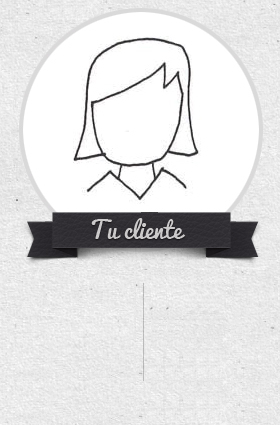
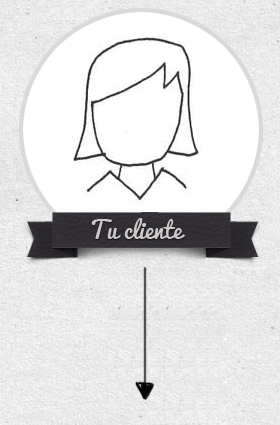
testimonials and breaks

Changed region(s): [[0.4857, 0.6118, 0.5714, 0.9482]]

diff --git a/public/stylesheets/style.css b/public/stylesheets/style.css
@@ -43,7 +43,7 @@ body {
 .right {
   float: right; }
 
-.fold_how, .fold_examples {
+.fold_how {
   height: 768px; }
 
 .fold_intro {
@@ -66,28 +66,37 @@ body {
 .intro .quees {
   width: 10em;
   height: 10em;
-  margin: 0; }
+  margin: 0 0 0 60px; }
   .intro .quees p {
     margin: 2.6em 0 0 0;
     font-size: 1.5em;
     letter-spacing: -0.5px; }
 
-.fold_connection_left, .fold_connection_right {
-  background-image: url("/images/bg_connection1.png");
-  width: 567px;
-  height: 411px;
-  margin: 0 0 0 75px; }
+.fold_connection_left {
+  width: 100%; }
+  .fold_connection_left .separation {
+    width: 10%;
+    margin: 0 10px 0 135px; }
 
-.fold_connection_right {
-  background-image: url("/images/bg_connection2.png");
-  margin: 0 230px 0 0;
-  width: 624px; }
+h4.signature {
+  font-size: 14px;
+  letter-spacing: 0.5px; }
 
 .fold_connection {
-  background-image: url("/images/bg_connection3.png");
-  margin: 0 230px 0 0;
-  width: 16px;
-  height: 329px; }
+  margin: 10px 0 100px 0; }
+  .fold_connection .testimonial {
+    width: 100%;
+    margin: 70px 0 0 0; }
+    .fold_connection .testimonial .texto {
+      width: 80%;
+      margin: 0 0 60px 0; }
+    .fold_connection .testimonial p {
+      font-size: 20px;
+      margin: 0; }
+    .fold_connection .testimonial p.signature {
+      font-size: 14px; }
+    .fold_connection .testimonial .image {
+      width: 17%; }
 
 .connection_intro.title {
   margin: 205px 50px 0 0; }
@@ -95,7 +104,7 @@ body {
 .fold_quees {
   width: 100%;
   text-align: center;
-  height: 700px; }
+  height: 740px; }
   .fold_quees .text {
     width: 52%;
     margin: 0 110px 0 0; }
@@ -121,7 +130,7 @@ body {
     text-transform: uppercase; }
 
 .fold_inboundoutbound .text {
-  height: 500px; }
+  height: 670px; }
 .fold_inboundoutbound .image .text {
   position: absolute;
   z-index: 2;
@@ -235,7 +244,8 @@ body {
     font-weight: lighter; }
 
 .fold_examples {
-  margin: 30px 0 0 0; }
+  margin: 30px 0 0 0;
+  height: 900px; }
 
 .examples {
   margin: 0  !important;
@@ -244,6 +254,7 @@ body {
   .examples .image {
     margin: 10px 0;
     width: 500px;
+    height: 345px;
     border: 1px solid #ccc; }
   .examples .description {
     margin: 0 0 0 10px;
@@ -327,18 +338,19 @@ body {
   margin: 60px 0 0 0; }
 
 .form_bg {
-  width: 100%;
+  width: 92%;
   background-color: white;
   opacity: 0.9;
   padding: 10px 10px 10px 20px;
   margin: 20px 0 0 0; }
   .form_bg .title {
     width: 45%;
-    border-right: 1px solid #ccc; }
+    border-right: 1px solid #ccc;
+    padding: 0 40px 0 20px; }
     .form_bg .title h1 {
       line-height: 50px; }
   .form_bg .form {
-    width: 50%;
+    width: 45%;
     padding: 0 10px 0 0;
     margin: 40px 0 0 0; }
   .form_bg input {

diff --git a/public/stylesheets/style.scss b/public/stylesheets/style.scss
@@ -65,7 +65,7 @@ body {
 
 //*FOLDS*//
 
- .fold_how, .fold_examples{
+ .fold_how{
 	height: 768px;
 }
 
@@ -99,7 +99,7 @@ body {
 	.quees {
 		width: 10em;
 		height: 10em;
-		margin: 0;
+		margin: 0 0 0 60px;
 		
 	  p {
 		margin: 2.6em 0 0 0;
@@ -113,24 +113,48 @@ body {
 
 //*FOLD CONNECTION*//
 
-.fold_connection_left, .fold_connection_right{
-	background-image: url('/images/bg_connection1.png');
-	width: 567px;
-	height: 411px;
-	margin: 0 0 0 75px;
+.fold_connection_left{
+	width: 100%;
+	
+	.separation {
+		width: 10%;
+		margin: 0 10px 0 135px;
+	}
+	
 }
 
-.fold_connection_right{
-	background-image: url('/images/bg_connection2.png');
-	margin: 0 230px 0 0;
-	width: 624px;	
+h4.signature {
+	font-size: 14px;
+	letter-spacing: 0.5px;
 }
+
 
 .fold_connection {
-	background-image: url('/images/bg_connection3.png');
-	margin: 0 230px 0 0;
-	width: 16px;	
-	height: 329px;
+	margin: 10px 0 100px 0;
+	
+	.testimonial {
+		width: 100%;
+		margin: 70px 0 0 0 ;
+		
+		.texto{
+			width: 80%;
+			margin: 0 0 60px 0;
+		}
+		
+		p {
+			font-size: 20px;
+			margin: 0;
+		}
+		
+		p.signature {
+			font-size: 14px;
+		}
+		
+		.image {
+			width: 17%;
+			
+		}
+	}
 }
 
 .connection_intro.title{
@@ -151,7 +175,7 @@ body {
 .fold_quees {		
 	width: 100%;
 	text-align: center;
-	height: 700px;
+	height: 740px;
 
 	.text {
 	  width: 52%;
@@ -192,7 +216,7 @@ body {
 
 .fold_inboundoutbound{
   .text {
-	height: 500px;
+	height: 670px;
 }
 	.image{
 		
@@ -376,6 +400,7 @@ body {
 
 .fold_examples {
 	margin: 30px 0 0 0;
+	height: 900px;
 }
 
 .examples {
@@ -385,7 +410,8 @@ body {
 		  
   .image {
 	  margin: 10px 0;
-		width: 500px;				
+		width: 500px;		
+		height: 345px;		
 		border: 1px solid #ccc;
   }
 
@@ -501,7 +527,7 @@ font-size: 24px;
 }
 
 .form_bg {
-	width: 100%;
+	width: 92%;
 	background-color: white;
 	opacity: 0.9;
 	padding: 10px 10px 10px 20px;
@@ -510,6 +536,7 @@ font-size: 24px;
 	.title{
 		width: 45%;
 		border-right: 1px solid #ccc;
+		padding: 0 40px 0 20px;
 		
 		h1{
 			line-height: 50px;
@@ -518,7 +545,7 @@ font-size: 24px;
 	}
 	
 	.form {
-		width: 50%;
+		width: 45%;
 		padding: 0 10px 0 0;
 		margin: 40px 0 0 0;
 	}
